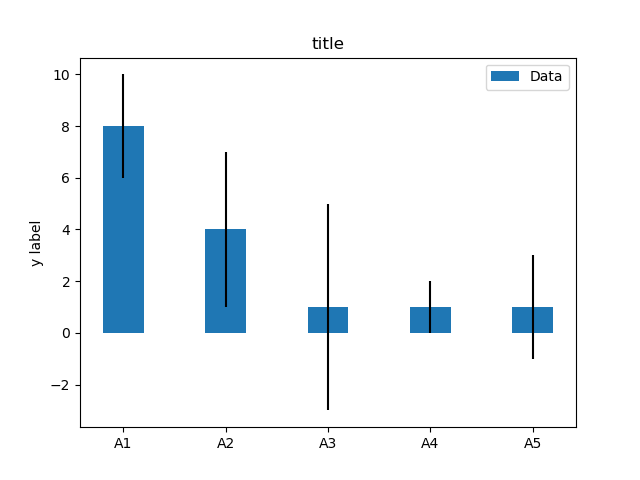
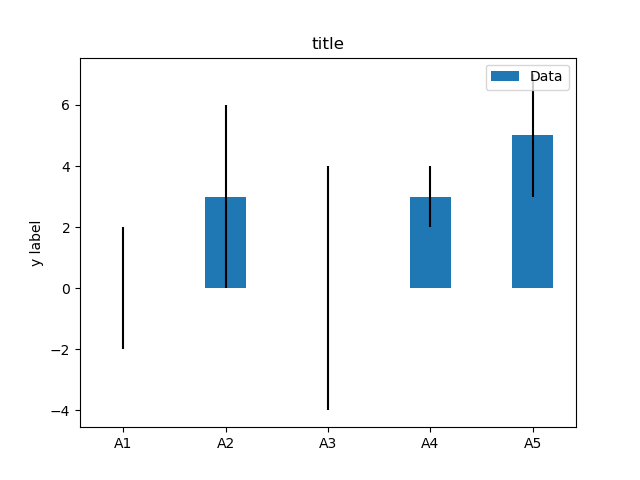
first commit

diff --git a/example.py b/example.py
@@ -2,7 +2,7 @@ import numpy as np
 import matplotlib.pyplot as plt
 
 labels = ['A1', 'A2', 'A3', 'A4', 'A5']
-m_means = [8,4,1,1,1]
+m_means = [0,3,0,3,5]
 m_std = [2, 3, 4, 1, 2]
 width = 0.40       # the width of the bars
 

diff --git a/README.md b/README.md
@@ -1,4 +1,4 @@
-# Matplotlib no 48 
+# Matplotlib no 49 
 
 python example
 
